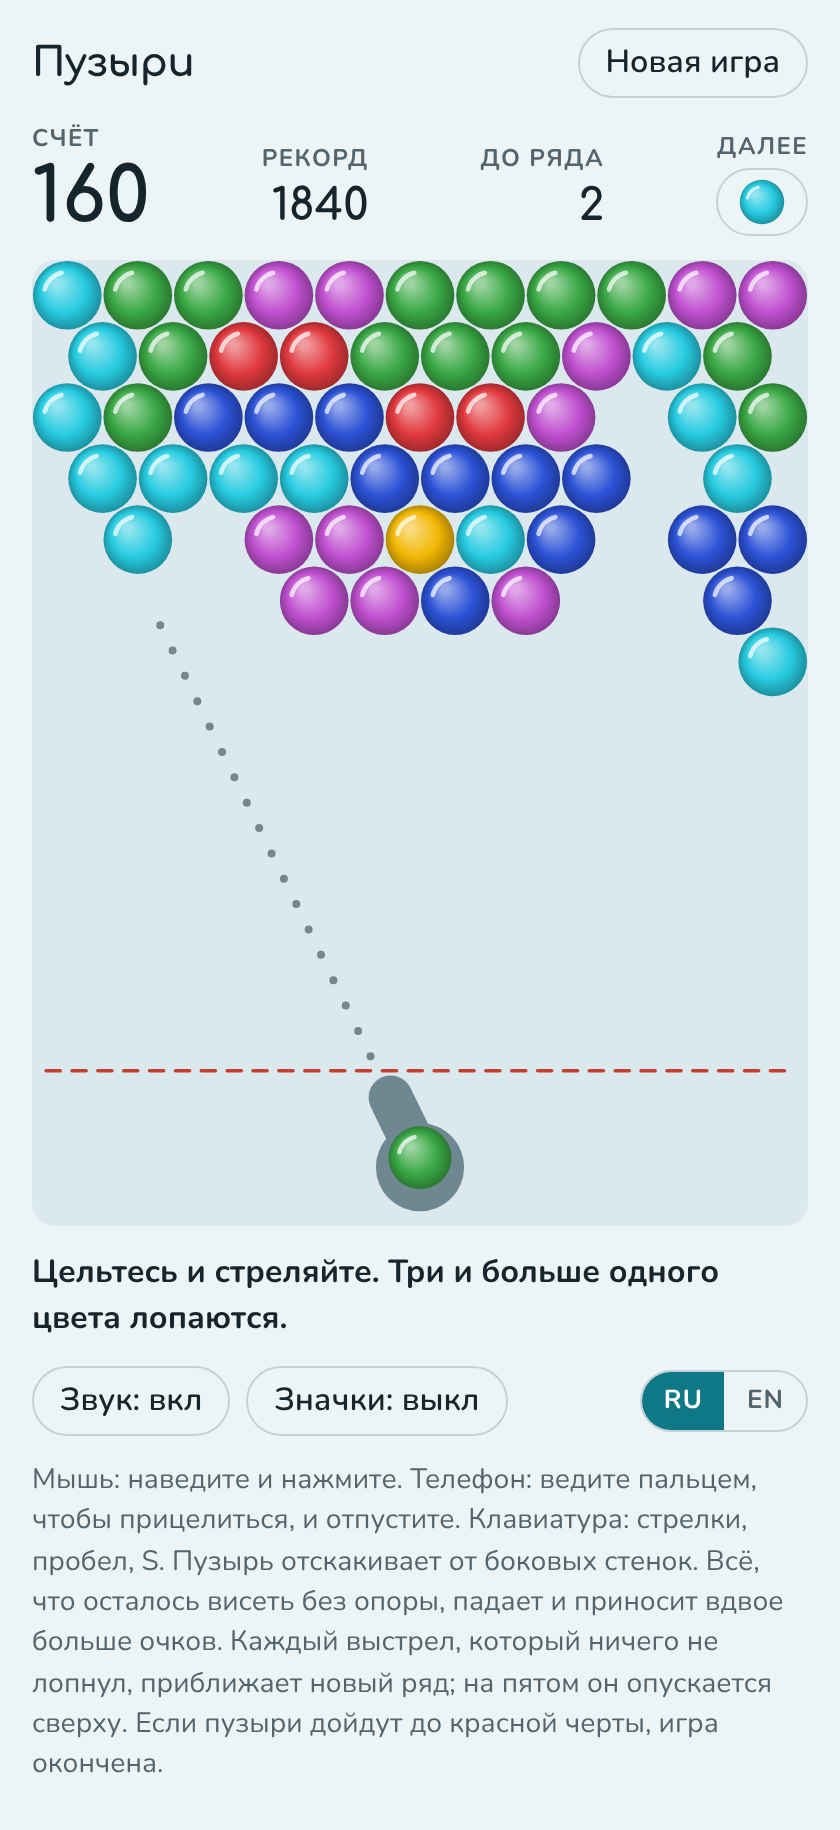
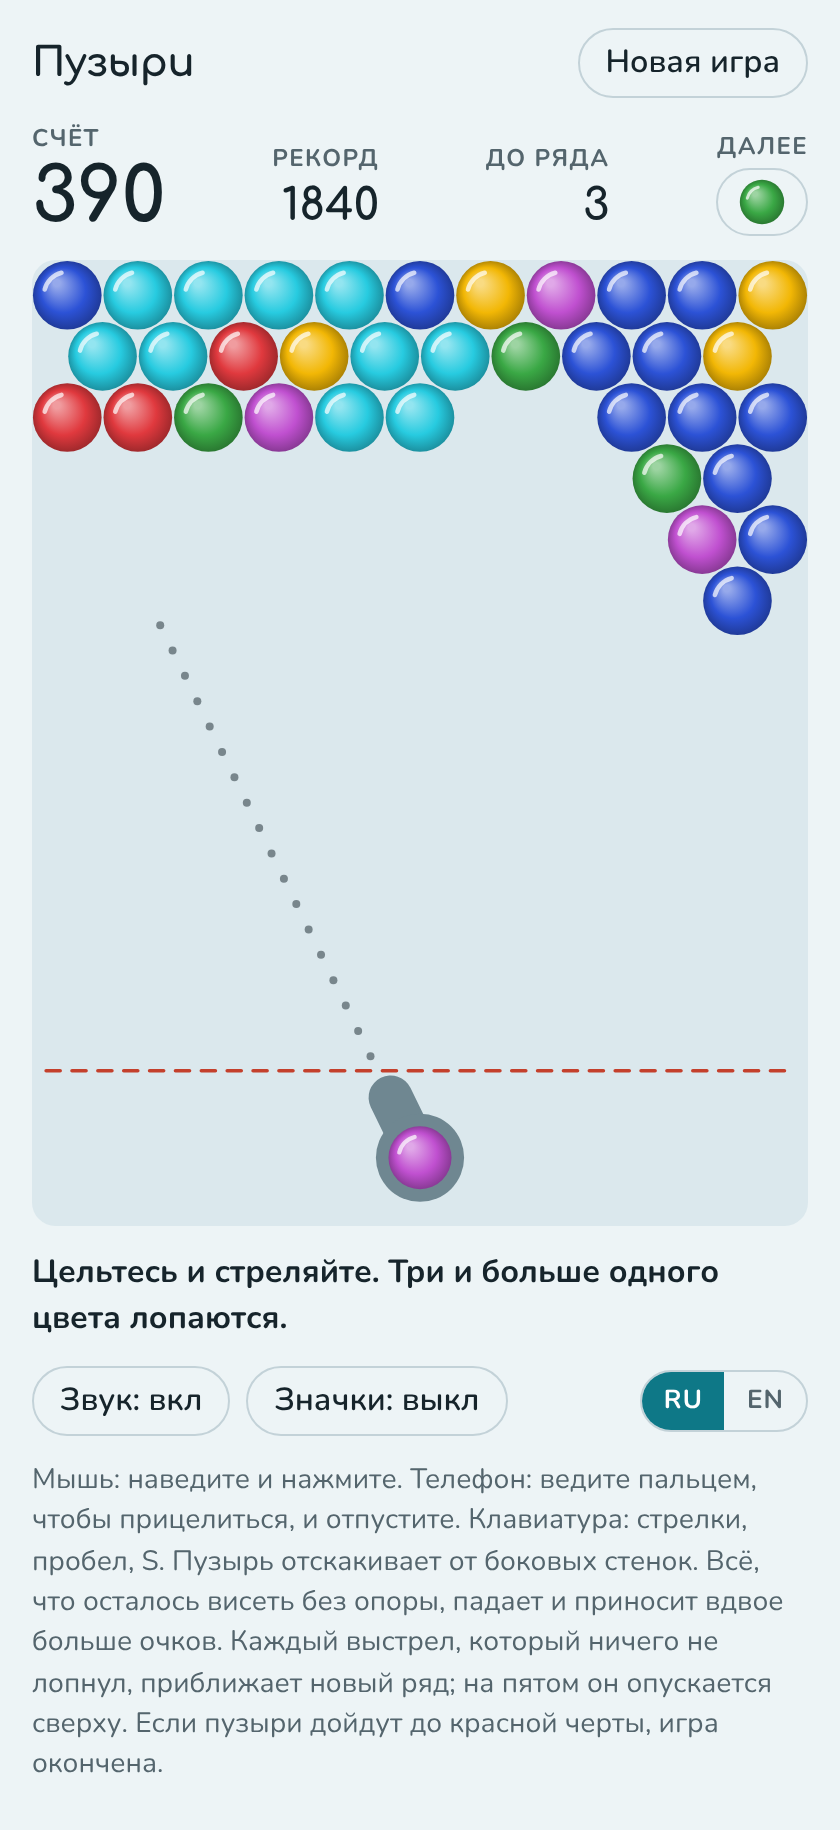
Centre the cannon base on the loaded bubble
The base circle was drawn 4 units below the bubble. Screenshots retaken.

Claude-Session: https://claude.ai/code/session_011m9jhDwSHMzssbNRw4qgWG

Changed region(s): [[0.031, 0.0623, 0.9595, 0.3738], [0.4333, 0.5918, 0.5571, 0.6852], [0.8667, 0.3426, 0.9595, 0.4049]]

diff --git a/index.html b/index.html
@@ -629,7 +629,7 @@
     ctx.strokeStyle = T.barrel; ctx.lineWidth = R * 1.25; ctx.lineCap = 'round';
     ctx.beginPath(); ctx.moveTo(LX, LY); ctx.lineTo(LX + ax * R * 1.9, LY + ay * R * 1.9); ctx.stroke();
     ctx.fillStyle = T.barrel;
-    ctx.beginPath(); ctx.arc(LX, LY + 4, R * 1.25, 0, 6.2832); ctx.fill();
+    ctx.beginPath(); ctx.arc(LX, LY, R * 1.25, 0, 6.2832); ctx.fill();
     if (state === 'aim') drawBubble(ctx, LX, LY, R * 0.92, cur, 1);
 
     if (shot) drawBubble(ctx, shot.x, shot.y, R, shot.color, 1);
